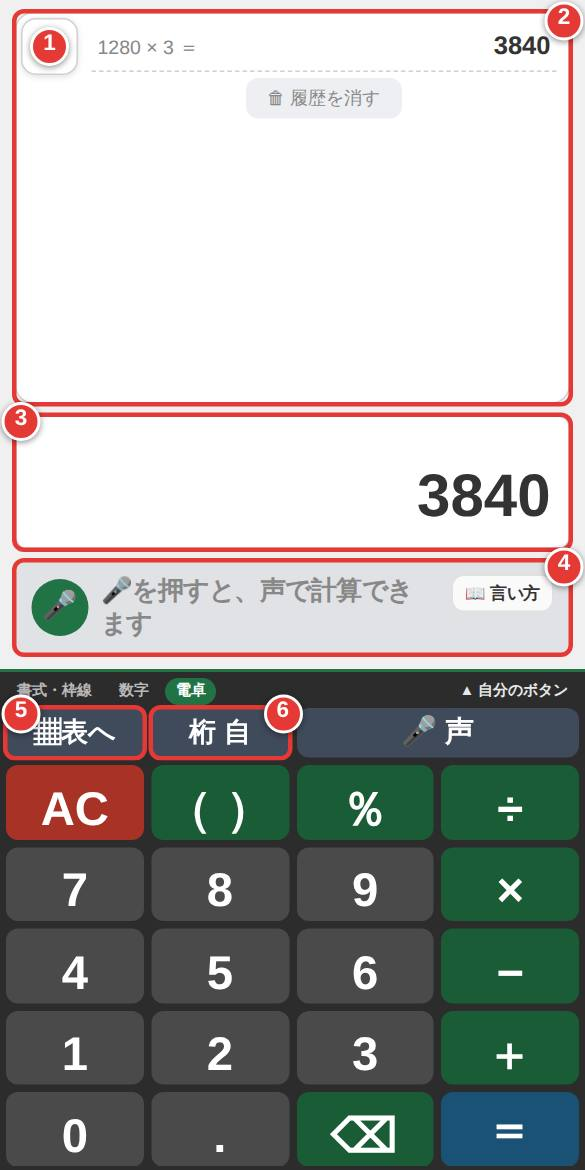
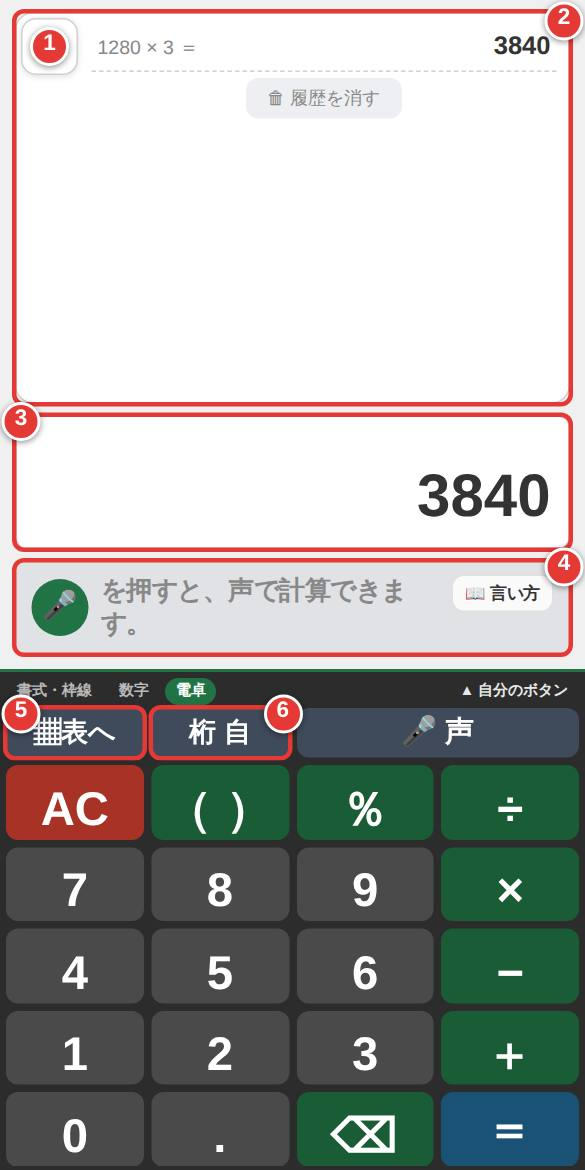
電卓の声の案内を「を押すと、声で計算できます。」に (v472)
- 🎤 ボタンの右の案内から 🎤 の絵を外し、となりのボタンを指す形にした
- 見た目の見本（phone-dentaku）と説明書の写真（dentaku）を撮り直した

Claude-Session: https://claude.ai/code/session_01XdkueUFiBkQqq6cCYMEG56

Changed region(s): [[0.1538, 0.4923, 0.7077, 0.5538]]

diff --git a/index.html b/index.html
@@ -4174,7 +4174,7 @@ body.dark {
     <button class="dt-voice-mic" onclick="event.stopPropagation();voiceStart()"
             title="押すと声で入れられます" aria-label="声で入れる">🎤</button>
     <span class="dt-voice-body">
-      <span class="dt-voice-f" id="dtVoiceF">🎤を押すと、声で計算できます</span>
+      <span class="dt-voice-f" id="dtVoiceF">を押すと、声で計算できます。</span>
       <span class="dt-voice-raw" id="dtVoiceRaw"></span>
     </span>
     <button class="dt-voice-more" id="dtVoiceMore" hidden
@@ -8981,6 +8981,8 @@ function saveOk(){ saveFailTold=false; }
    「あとで」でもその版は見たことにして、しつこく出さない。 */
 const SEEN_VER_KEY='excalc_seen_ver';
 const WHATSNEW=[
+  { v:'v472', t:'電卓の声の案内を見やすく', li:[
+    '電卓の 🎤 ボタンの右の案内を「<b>を押すと、声で計算できます。</b>」にしました（案内の中の 🎤 の絵を外し、となりのボタンを指す形に）' ]},
   { v:'v471', t:'右下の ■ をつかみやすく', li:[
     'スマホ・タブレットでは、右下の <b>■ を押したとみなす範囲</b>を広げました（セルの内側は右下の約半分、外側は角から約30pxまで）。少しずれたところを押しても引っぱれます' ]},
   { v:'v470', t:'右下の ■ で引っぱるコピーを、思ったとおりに', li:[
@@ -16095,7 +16097,7 @@ function dtVoiceShow(formula, raw, state){
   const box=document.getElementById('dtVoice');
   const f=document.getElementById('dtVoiceF'), r=document.getElementById('dtVoiceRaw');
   if(!box||!f||!r) return;
-  f.textContent=formula||'🎤を押すと、声で計算できます';
+  f.textContent=formula||'を押すと、声で計算できます。';
   r.textContent=raw?('「'+raw+'」と聞こえました'):'';
   box.classList.toggle('dt-voice-on', state==='on');
   box.classList.toggle('dt-voice-ng', state==='ng');
@@ -20911,7 +20913,7 @@ function attachSettingsSwipe(){
   el.addEventListener('mousedown',  e=>start(e.clientX, e.clientY, e.target));
   el.addEventListener('mouseup',    e=>end(e.clientX, e.clientY));
 }
-const APP_VERSION='v471';   // アプリのバージョン（service-worker.js のキャッシュ番号と合わせる）
+const APP_VERSION='v472';   // アプリのバージョン（service-worker.js のキャッシュ番号と合わせる）
 /* 説明書の関数一覧を、使える関数の定義そのものから作る。
    関数を増やしたときに説明書だけ古くなる、ということが起きないようにする。 */
 function renderHelpFuncTable(){

diff --git a/tests/run.js b/tests/run.js
@@ -1739,7 +1739,7 @@ async function runCalcPage(browser) {
     document.querySelectorAll('#dentakuPane .dt-key').length + ':' +
     (document.getElementById('dtVoice') ? 1 : 0)), '0:1');
   await page.evaluate(() => { dtAllClear(); dtTape = []; });
-  check('  はじめは案内だけ', await vline(), '🎤を押すと、声で計算できます ｜  ｜ −');
+  check('  はじめは案内だけ', await vline(), 'を押すと、声で計算できます。 ｜  ｜ −');
   await page.evaluate(() => voiceAcceptDentaku('251かける68'));
   await page.waitForTimeout(200);
   check('  声で言った式が出る', await vline(), '251×68 ＝ 17068 ｜ 「251かける68」と聞こえました ｜ 緑');
@@ -1749,7 +1749,7 @@ async function runCalcPage(browser) {
   check('  式にできないときは聞こえた言葉を残す', await vline(),
         '計算の形になりませんでした ｜ 「こんにちは」と聞こえました ｜ 赤');
   await page.evaluate(() => dtAllClear());
-  check('  AC で消える', await vline(), '🎤を押すと、声で計算できます ｜  ｜ −');
+  check('  AC で消える', await vline(), 'を押すと、声で計算できます。 ｜  ｜ −');
 
   check('  JSエラーが出ていない', errs.length, 0);
   if (errs.length) console.log('    ', errs);
@@ -4436,7 +4436,7 @@ async function runCompact(browser) {
     const r = document.querySelector('.dt-voice-mic').getBoundingClientRect();
     return Math.min(r.width, r.height) >= 30; }), true);
   check('  はじめの案内が押すよう促す', await page.evaluate(() =>
-    document.getElementById('dtVoiceF').textContent), '🎤を押すと、声で計算できます');
+    document.getElementById('dtVoiceF').textContent), 'を押すと、声で計算できます。');
   await page.evaluate(() => { window.__vs = 0; window.__realVoice = window.voiceStart;
     window.voiceStart = () => { window.__vs++; }; });
   await page.click('.dt-voice-mic'); await page.waitForTimeout(250);

diff --git a/service-worker.js b/service-worker.js
@@ -1,4 +1,4 @@
-const CACHE = 'excalc-v471';
+const CACHE = 'excalc-v472';
 const CACHE_PREFIX = 'excalc-';   // このアプリのキャッシュだけを見分けるための名前
 const ASSETS = ['./', './index.html', './help.js', './photomemo.js', './techo.js', './subsc.js', './heya.js', './annai.js', './shimai.js', './koe/phrase.js', './manifest.json',
   './icon-192.png', './icon-512.png',
